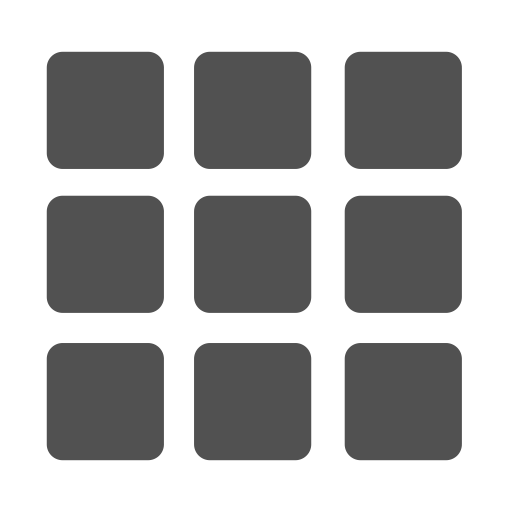
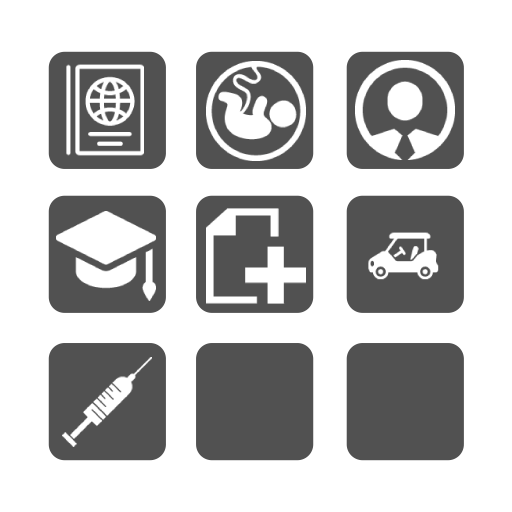
Dos vistas completas

diff --git a/src/app/añadir-documento/añadir-documento.html b/src/app/añadir-documento/añadir-documento.html
@@ -1,0 +1,30 @@
+<mat-toolbar class="dashboard" style="align-items: initial;">
+    <span>
+        <img src="../../assets/menu-icon.png" class="menu-icon">
+    </span>
+    <span class="fill-remaining-space"></span>
+    <span class="text-toolbar">Añadir</span>
+    <span class="fill-remaining-space"></span>
+</mat-toolbar><br>
+<form class="sensor-form">
+    <mat-form-field class="comparar">
+        <mat-label style="color: #ffffff; font-size: 30px">Nombre</mat-label>
+        <input style="color: #ffffff" matInput value="Leo Messi">
+    </mat-form-field>
+    <mat-form-field class="comparar">
+        <mat-label style="color: #ffffff; font-size: 30px">Ícono</mat-label>
+        <input style="color: #ffffff" matInput value="Buscar">
+    </mat-form-field>
+    <img src="../../assets/grid.png" style="height: 200px; float: right;">
+    <img src="../../assets/qr-img.png" style=" float: initial;margin-left: auto; margin-right: auto; display: flex;">
+    <br>
+    <div style="display: flex">
+        <div>
+          <img src="../../assets/camera-icon.png" style="height: 50px;">
+        </div>
+        <span class="fill-remaining-space"></span>
+        <div>
+          <img src="../../assets/check-icon.png" style="height: 50px;">
+        </div>
+    </div>
+</form>

diff --git a/src/app/app.component.html b/src/app/app.component.html
@@ -1,21 +1,4 @@
 <!--The content below is only a placeholder and can be replaced.-->
-<div style="text-align:center">
-  <h1>
-    Welcome to {{ title }}!
-  </h1>
[1 lines of base64/hex data omitted]
-</div>
-<h2>Here are some links to help you start: </h2>
-<ul>
-  <li>
-    <h2><a target="_blank" rel="noopener" href="https://angular.io/tutorial">Tour of Heroes</a></h2>
-  </li>
-  <li>
-    <h2><a target="_blank" rel="noopener" href="https://angular.io/cli">CLI Documentation</a></h2>
-  </li>
-  <li>
-    <h2><a target="_blank" rel="noopener" href="https://blog.angular.io/">Angular blog</a></h2>
-  </li>
-</ul>
-
+<!--<visualizador-documento></visualizador-documento>-->
+<aniadir-documento></aniadir-documento>
 <router-outlet></router-outlet>

diff --git a/src/app/visualizador-documento/visualizador-documento.html b/src/app/visualizador-documento/visualizador-documento.html
@@ -1,0 +1,31 @@
+<!--component html goes here -->
+<mat-toolbar class="dashboard" style="align-items: initial;">
+    <span>
+        <img src="../../assets/menu-icon.png" class="menu-icon">
+    </span>
+    <span class="fill-remaining-space"></span>
+    <span class="text-toolbar">Cédula</span>
+    <span class="fill-remaining-space"></span>
+    <span>
+        <img src="../../assets/qr-icon.png" class="menu-icon">
+    </span>
+</mat-toolbar>
+
+<img src="../../assets/profile-img.png" class="profile-img">
+
+<h2 class="id-text">0x1EHAt2cJdHUmBhBNa</h2>
+<h1 class="id-text">Pepito Pérez</h1>
+<hr>
+
+<p style="color: white; margin-top: 0px; margin-bottom: 1.31%">Fecha de nacimiento</p>
+<p style="color: white; font-size: 23px; margin-top: 0px;">31-DIC-1987</p>
+ 
+<p style="color: white; margin-top: 0px; margin-bottom: 1.31%">G.S. RH</p>
+<p style="color: white; font-size: 23px; margin-top: 0px;">AB -</p>
+ 
+<p style="color: white; margin-top: 0px; margin-bottom: 1.31%">Ciudad de nacimiento</p>
+<p style="color: white; font-size: 23px; margin-top: 0px;">Nazareth</p>
+ 
+<p style="color: white; margin-top: 0px; margin-bottom: 1.31%">Sexo</p>
+<p style="color: white; font-size: 23px; margin-top: 0px;">Masculino</p>
+ 

diff --git a/src/app/app.module.ts b/src/app/app.module.ts
@@ -1,16 +1,19 @@
+import { VisualizadorDocumento } from './visualizador-documento/visualizador-documento.component';
 import { BrowserModule } from '@angular/platform-browser';
 import { NgModule } from '@angular/core';
 import { AppRoutingModule } from './app-routing.module';
 import { AppComponent } from './app.component';
 import {BrowserAnimationsModule} from '@angular/platform-browser/animations';
+import { MatToolbarModule, MatFormFieldModule, MatInputModule }from '@angular/material';
+import { AñadirDocumento } from './añadir-documento';
 
 @NgModule({
   declarations: [
-    AppComponent
+    AppComponent, VisualizadorDocumento, AñadirDocumento
   ],
   imports: [
     BrowserModule,
-    AppRoutingModule, BrowserAnimationsModule
+    AppRoutingModule, BrowserAnimationsModule, MatToolbarModule, MatFormFieldModule, MatInputModule
   ],
   providers: [],
   bootstrap: [AppComponent]

diff --git a/src/app/visualizador-documento/visualizador-documento.css b/src/app/visualizador-documento/visualizador-documento.css
@@ -1,0 +1,43 @@
+.dashboard {
+    width: 100%;
+    background-color: transparent;
+    padding: 0px;
+}
+
+.fill-remaining-space {
+    /* This fills the remaining space, by using flexbox. 
+       Every toolbar row uses a flexbox row layout. */
+    flex: 1 1 auto;
+    display: flex;
+    flex-direction: row;
+}
+
+.menu-icon{
+    width: 35px;
+    color: white;
+}
+
+.text-toolbar{
+    font-size: 35px;
+    color: white;
+    margin-bottom: 4%;
+}
+
+.profile-img{
+    width: 180px;
+    display: block;
+    margin-left: auto;
+    margin-right: auto;
+}
+
+.id-text{
+    color: white; 
+    text-align: center;
+    font-weight: lighter
+}
+
+hr{
+    color: white;
+    border-width: 1px;
+    margin-bottom: 40px;
+}

diff --git a/src/app/añadir-documento/añadir-documento.css b/src/app/añadir-documento/añadir-documento.css
@@ -1,0 +1,36 @@
+.dashboard {
+    width: 100%;
+    background-color: transparent;
+    padding: 0px;
+}
+
+.fill-remaining-space {
+    /* This fills the remaining space, by using flexbox. 
+       Every toolbar row uses a flexbox row layout. */
+    flex: 1 1 auto;
+    display: flex;
+    flex-direction: row;
+}
+
+.menu-icon{
+    width: 35px;
+    color: white;
+}
+
+.text-toolbar{
+    font-size: 30px;
+    color: white;
+    margin-bottom: 4%;
+}
+
+.sensor-form{
+    margin-left: 10px;
+}
+
+mat-form-field {
+    color: white;
+    font-family: 'Lato', sans-serif !important;
+    font-size: 18px;
+    display: block;
+    width: 95%;
+}

diff --git a/src/app/visualizador-documento/visualizador-documento.module.ts b/src/app/visualizador-documento/visualizador-documento.module.ts
@@ -1,0 +1,25 @@
+import { NgModule }     from '@angular/core';
+import { CommonModule } from '@angular/common';
+import { FormsModule }  from '@angular/forms';
+
+import { routing }      from './visualizador-documento.routing';
+
+// This Module's Components
+import { VisualizadorDocumento } from './visualizador-documento.component';
+
+@NgModule({
+    imports: [
+        CommonModule,
+        FormsModule,
+        routing
+    ],
+    declarations: [
+        VisualizadorDocumento
+    ],
+    exports: [
+        VisualizadorDocumento
+    ]
+})
+export class VisualizadorDocumentoModule {
+
+}

diff --git a/src/app/añadir-documento/añadir-documento.module.ts b/src/app/añadir-documento/añadir-documento.module.ts
@@ -1,0 +1,25 @@
+import { NgModule }     from '@angular/core';
+import { CommonModule } from '@angular/common';
+import { FormsModule }  from '@angular/forms';
+
+import { routing }      from './añadir-documento.routing';
+
+// This Module's Components
+import { AñadirDocumento } from './añadir-documento.component';
+
+@NgModule({
+    imports: [
+        CommonModule,
+        FormsModule,
+        routing
+    ],
+    declarations: [
+        AñadirDocumento
+    ],
+    exports: [
+        AñadirDocumento
+    ]
+})
+export class AñadirDocumentoModule {
+
+}

diff --git a/src/app/visualizador-documento/visualizador-documento.routing.ts b/src/app/visualizador-documento/visualizador-documento.routing.ts
@@ -1,0 +1,20 @@
+import { Routes, RouterModule }  from '@angular/router';
+
+
+import { VisualizadorDocumento } from './visualizador-documento.component';
+import { ModuleWithProviders } from '@angular/core';
+
+export const routes: Routes = [
+  {
+    path: '',
+    component: VisualizadorDocumento,
+    children: [
+      //{ path: 'childview', component: ChildViewComponent }
+    ]
+  }
+];
+
+export const routing: ModuleWithProviders = RouterModule.forChild(routes);
+// if it has child use routing below
+//export const routing = RouterModule.forChild(routes);
+

diff --git a/src/app/añadir-documento/añadir-documento.routing.ts b/src/app/añadir-documento/añadir-documento.routing.ts
@@ -1,0 +1,20 @@
+import { Routes, RouterModule }  from '@angular/router';
+
+
+import { AñadirDocumento } from './añadir-documento.component';
+import { ModuleWithProviders } from '@angular/core';
+
+export const routes: Routes = [
+  {
+    path: '',
+    component: AñadirDocumento,
+    children: [
+      //{ path: 'childview', component: ChildViewComponent }
+    ]
+  }
+];
+
+export const routing: ModuleWithProviders = RouterModule.forChild(routes);
+// if it has child use routing below
+//export const routing = RouterModule.forChild(routes);
+

diff --git a/src/app/visualizador-documento/visualizador-documento.component.ts b/src/app/visualizador-documento/visualizador-documento.component.ts
@@ -1,0 +1,12 @@
+import { Component } from '@angular/core';
+
+@Component({
+    selector: 'visualizador-documento',
+    templateUrl: 'visualizador-documento.html',
+    styleUrls: ['visualizador-documento.css']
+})
+export class VisualizadorDocumento {
+
+  constructor() {
+  }
+}

diff --git a/src/app/añadir-documento/añadir-documento.component.ts b/src/app/añadir-documento/añadir-documento.component.ts
@@ -1,0 +1,12 @@
+import { Component } from '@angular/core';
+
+@Component({
+    selector: 'aniadir-documento',
+    templateUrl: 'añadir-documento.html',
+    styleUrls: ['añadir-documento.css']
+})
+export class AñadirDocumento {
+
+  constructor() {
+  }
+}
